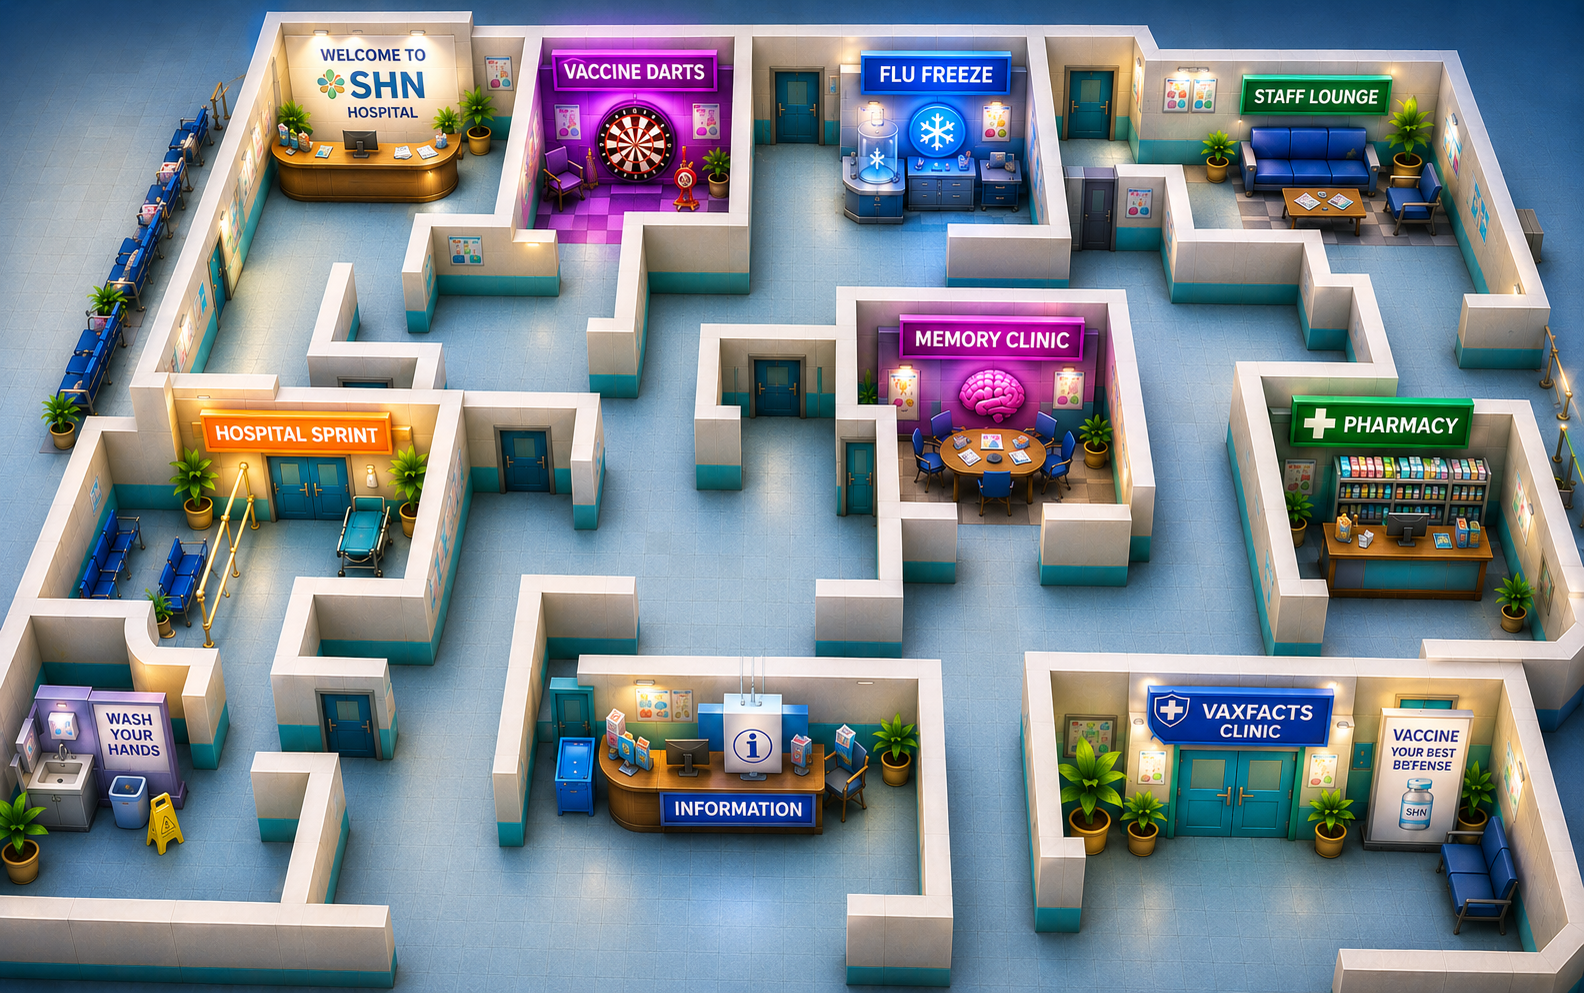
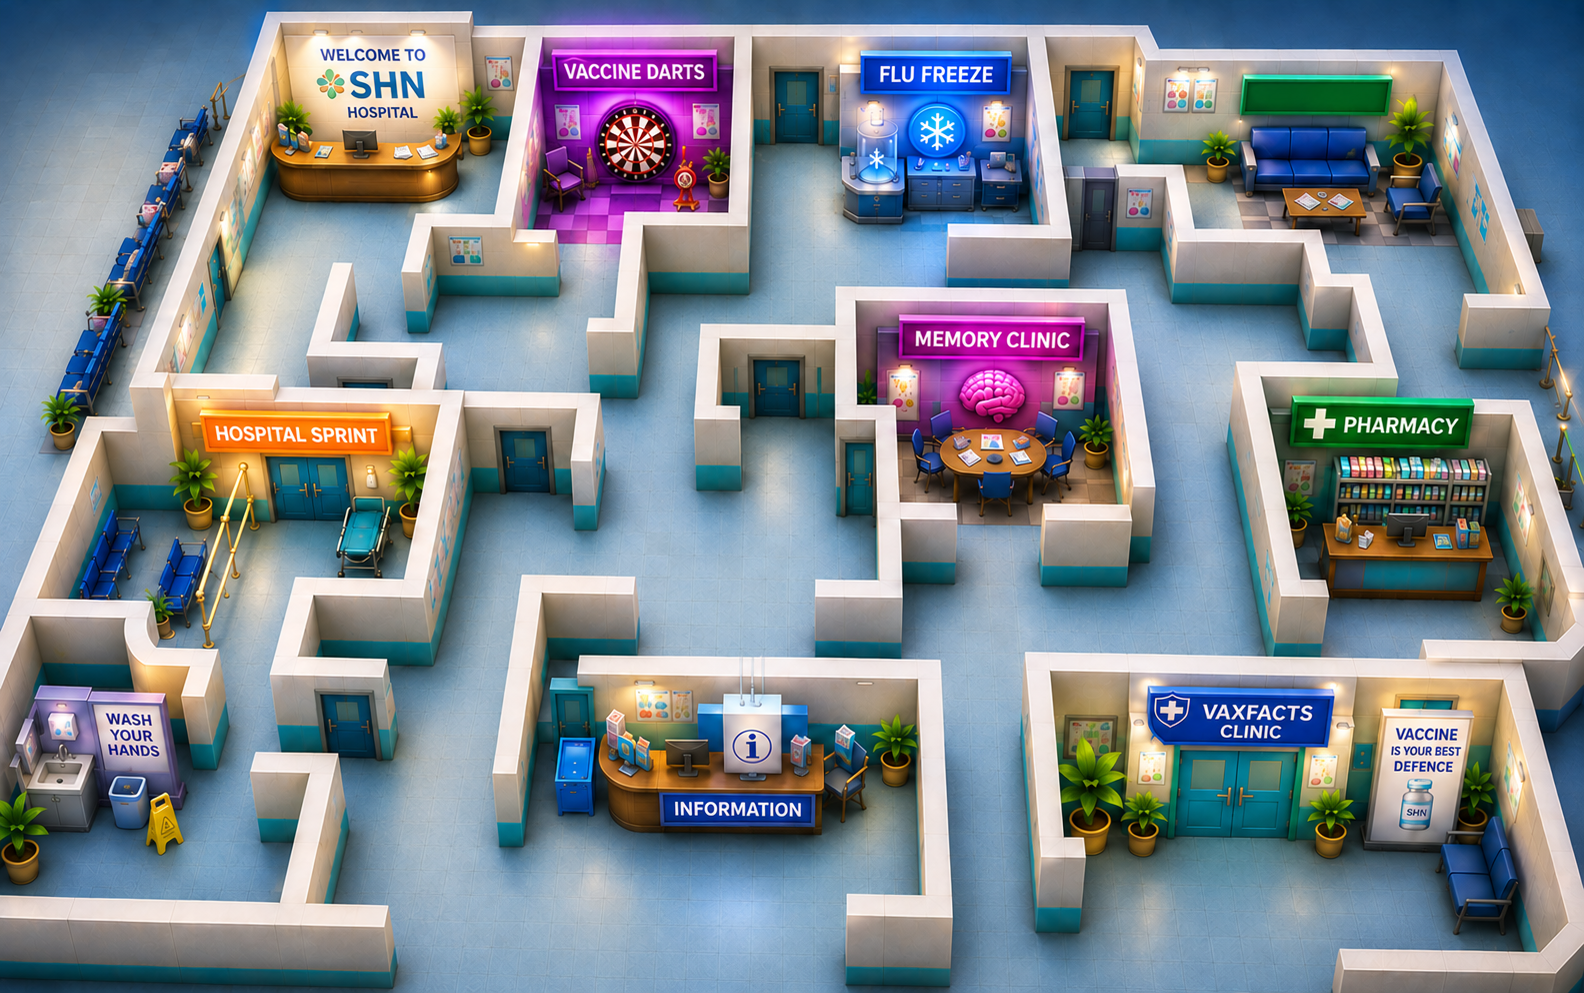
Update maze backdrop art (maze-bg.png v3)

diff --git a/index.html b/index.html
@@ -24,7 +24,7 @@
       href="https://fonts.googleapis.com/css2?family=Baloo+2:wght@600;700;800&display=swap"
       rel="stylesheet"
     />
-    <link rel="stylesheet" href="style.css?v=24" />
+    <link rel="stylesheet" href="style.css?v=25" />
   </head>
   <body>
     <!-- =========================================================
@@ -495,6 +495,6 @@
 
     <!-- Collision map auto-generated from the maze artwork (see assets/maze/). -->
     <script src="assets/maze/wallmask.js"></script>
-    <script src="script.js?v=24"></script>
+    <script src="script.js?v=25"></script>
   </body>
 </html>

diff --git a/style.css b/style.css
@@ -5116,7 +5116,7 @@ img {
    floor. Flat (no 3D tilt); elements sit on top at image-pixel positions.
    ========================================================================= */
 #maze-world.img-mode {
-  background: url("assets/maze/maze-bg.png?v=2") center / 100% 100% no-repeat;
+  background: url("assets/maze/maze-bg.png?v=3") center / 100% 100% no-repeat;
   transform: none;
 }
 #maze-world.img-mode::before {

diff --git a/script.js b/script.js
@@ -815,7 +815,7 @@ function rotateSlogan(elId) {
 // supported) means the first paint is immediate.
 function preloadHeavyArt() {
   const urls = [
-    "assets/maze/maze-bg.png?v=2", // the maze floor (must match the CSS url)
+    "assets/maze/maze-bg.png?v=3", // the maze floor (must match the CSS url)
     "assets/backgrounds/sick-home-bg.png", // Recovery Week backdrop
   ];
   urls.forEach((u) => {
